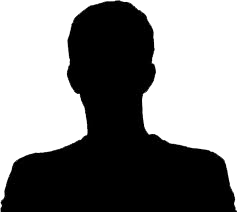
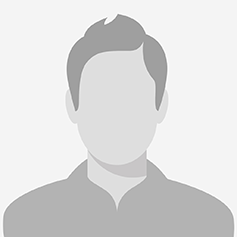
Inizio Modifica Dettagli Anagrafica

diff --git a/public/dettagli-anagrafica-centro-include.php b/public/dettagli-anagrafica-centro-include.php
@@ -63,7 +63,7 @@
 					
 						<td valign="middle" style="border-left:solid 3px; border-color:#C0C0C0; padding:10px 5px 10px 5px">
 							<?php 
-							
+								
 							if ($row['tipologia']=='persona') {
 								?>
 								<font style="font-family:'Lucida Sans Unicode', 'Lucida Grande', sans-serif" size="+1">Cognome: </font>
@@ -198,33 +198,12 @@
 						<?php
 					}
 					
-					$cr = $countrecapiti->fetch();
-					if ($cr[0] > 0) {
-						?>
-						<tr>
-							<td width="" style="border-top:solid 3px; border-color:#C0C0C0; padding:10px 5px 10px 5px">  
-								<font style="font-family:'Lucida Sans Unicode', 'Lucida Grande', sans-serif" size="+1">Recapiti: </font>
-							</td>
-							
-							<td colspan="2" width="" style="border-top:solid 3px; border-color:#C0C0C0; padding:10px 5px 10px 5px">
-								<strong><font style="font-family:'Arial', cursive" size="+1">
-								<?php
-								while ($row2 = $risultati2->fetch()) {
-									if ($row2['numero'] != '') {
-										echo '<i class="fa fa-'.$row2['tipo'].' fa-fw"></i> '; echo strtolower($row2['numero']);
-									}
-									?>
-									<br> 
-									<?php
-								}
-								?>
-								</font></strong>
-							</td>
-						</tr>
-						<?php
-					}
+					
 					?>
 				</table>
+
+				
+
 			</div>
 		</div>
 	</div>
@@ -250,3 +229,96 @@
 		</div>
 	</div>
 </div>
+
+				 
+                  	<div class="row">
+                  		<div class="col-sm-9">
+                      	<div class="panel panel-default">
+                      		<div class="panel-heading">
+                      			<h3 class="panel-title"><strong><i class="fa fa-address-card-o"></i> Dettagli Anagrafica:</strong></h3>
+                      		</div>
+                       			
+                       		<div class="panel-body">
+                      			<div class="col-sm-3">
+                       				<br><img class="img-circle" src="<?php if($row['urlfoto']) {echo 'foto/'.$row['urlfoto'];} else {echo 'foto/sagoma.png';} ?>" width="150">             
+                      			</div>
+                      
+                      			<div class="col-sm-9">
+                          			<div class="container">
+                            			<h3>
+                            				<?php echo '<i class="fa fa-user fa-fw"></i> ' . ucwords(strtolower($row['cognome'])) . ' ' . ucwords(strtolower($row['nome'])); ?><?php if($row['codicefiscale'] != '') { echo ' ('.strtoupper($row['codicefiscale']).')'; } ?>		
+                            			</h3>
+                            			<?php
+                            			if ($datanascita != '' AND $datanascita != '00/00/0000' AND $datanascita != '01/01/1901') 
+										{
+                            				echo '<br><i class="fa fa-birthday-cake fa-fw"></i> '.$datanascita.' ';
+                            			}
+                            			if ($row['nascitacomune'] != '')
+                            			{
+                            				echo ucwords(strtolower($row['nascitacomune'])); 
+										}
+										if ($row['nascitaprovincia'] !='') 
+										{ 
+											echo ' (' . strtoupper($row['nascitaprovincia']) . ')'; 
+										} 
+										if ($row['nascitastato'] !='') 
+										{ 
+											echo ' - ' . ucwords(strtolower($row['nascitastato']));
+										}
+										?>
+                         			</div>
+                           			<hr>
+                           			<div class="container">
+
+	                           			<?php 
+	                           			if ($row['residenzavia'] != '')
+										{
+		                           			echo '<i class="fa fa-map-marker fa-fw"></i> ' . ucwords(strtolower($row['residenzavia'])); 
+											if ($row['residenzacivico']!='') 
+											{ 
+												echo ', ' . $row['residenzacivico'];
+											}
+											echo '<br>';
+										}
+										if($row['residenzacap'] != '') 
+										{
+									 		echo '<i class="fa fa-fw"></i> ' . $row['residenzacap']. ' - ';
+									 	} 
+										if($row['residenzacitta'] != '')
+										{
+											echo ucwords(strtolower($row['residenzacitta'])); 
+											if ($row['residenzaprovincia']!='') 
+											{
+												echo ' ('. strtoupper($row['residenzaprovincia']) . ')';
+											}
+										} 
+										?>
+									</div>
+                           			<hr>
+                           			<?php
+                           			$cr = $countrecapiti->fetch();
+									if ($cr[0] > 0) 
+									{
+										?>
+	                          			<div class="container">
+	                          				<?php
+											while ($row2 = $risultati2->fetch()) 
+											{
+												if ($row2['numero'] != '') 
+												{
+													echo '<p><i class="fa fa-'.$row2['tipo'].' fa-fw"></i> ';
+													echo strtolower($row2['numero']);
+													echo '</p>';
+												}
+											}
+											?>
+	                          			</div>
+	                          			<?php
+	                          		}
+	                          		?>
+                      			</div>
+                			</div>
+            			</div>
+            		</div>
+            		</div>
+           

diff --git a/public/anagrafica-centro-include.php b/public/anagrafica-centro-include.php
@@ -256,7 +256,7 @@
 						<label>Associa una foto:</label>
 						<form role="form" enctype="multipart/form-data" action="login0.php?corpus=upload-foto" method="POST">
 							<center>
-							<img src="foto/<?php if($urlfoto) {echo $urlfoto . "\" width=\"100%\""; $foto=1;} else {echo 'sagoma.png';}?>">
+							<img class="img-circle" src="foto/<?php if($urlfoto) {echo $urlfoto . "\" width=\"100%\""; $foto=1;} else {echo 'sagoma.png';}?>">
 							<?php
 								if($foto) {
 									?>

diff --git a/public/risultati-centro-include.php b/public/risultati-centro-include.php
@@ -206,7 +206,7 @@
 
 	
 		$num_righe = $risultati->rowCount();
-		$my_log -> publscrivilog( $_SESSION['loginname'], 'EFFETTUATA RICERCA IN ANAGRAFICA' , 'OK' , 'VALORE CERCATO '.$cercato, $_SESSION['historylog']);
+		$my_log -> publscrivilog( $_SESSION['loginname'], 'EFFETTUATA RICERCA IN ANAGRAFICA' , 'OK' , 'VALORE CERCATO '.$cercato, $_SESSION['logfile'], 'page request');
 		if  ($num_righe > 0) {
 			echo "Numero di risultati trovati: <b>$tot_records</b><br>"; 
 			?>

diff --git a/public/ricerca-anagrafica-centro-include.php b/public/ricerca-anagrafica-centro-include.php
@@ -2,7 +2,7 @@
 <?php
 	$_SESSION['block'] = false;
 	$level = $_SESSION['auth'];
-	$my_log -> publscrivilog( $_SESSION['loginname'], 'GO TO RICERCA ANAGRAFICA' , 'OK' , $_SESSION['ip'], $_SESSION['historylog']);
+	$my_log -> publscrivilog( $_SESSION['loginname'], 'GO TO RICERCA ANAGRAFICA' , 'OK' , $_SESSION['ip'], $_SESSION['logfile'], 'page request');
 	$lett = new Lettera();
 ?>
 

diff --git a/mail-conf-include.php b/mail-conf-include.php
@@ -1,0 +1,11 @@
+<?php
+	$mail->IsSMTP();
+	$mail->SMTPAuth = true;
+	$mail->SMTPKeepAlive = "true";
+	$mail->SMTPSecure = $_SESSION['protocolloemail'];
+	$mail->Host = $_SESSION['smtp'];
+	$mail->Port = $_SESSION['porta'];
+	$mail->Username = $_SESSION['usernamemail'];
+	$mail->Password = $_SESSION['passwordmail'];
+	$mail->Debugoutput = 'html';
+?>
